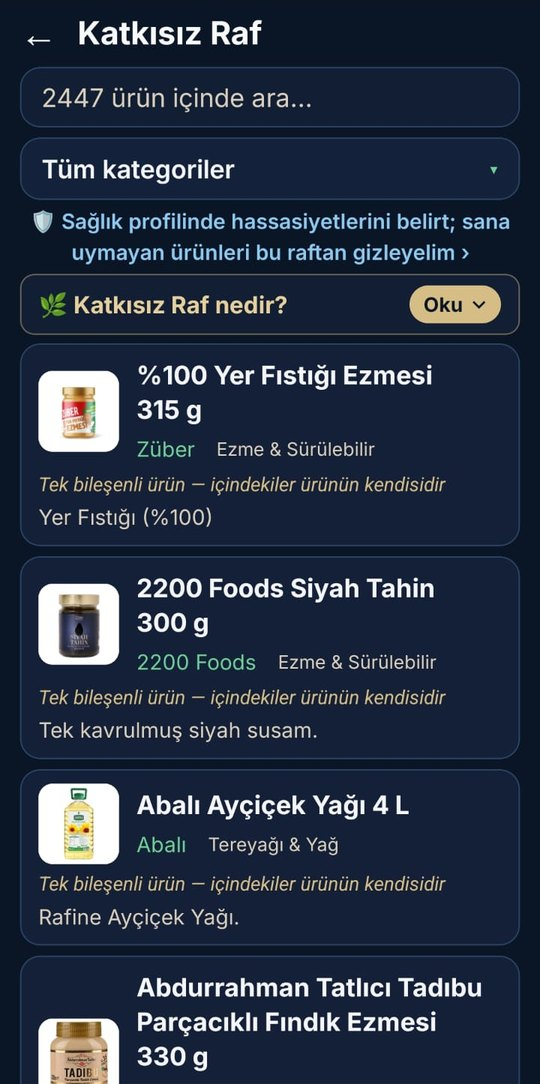
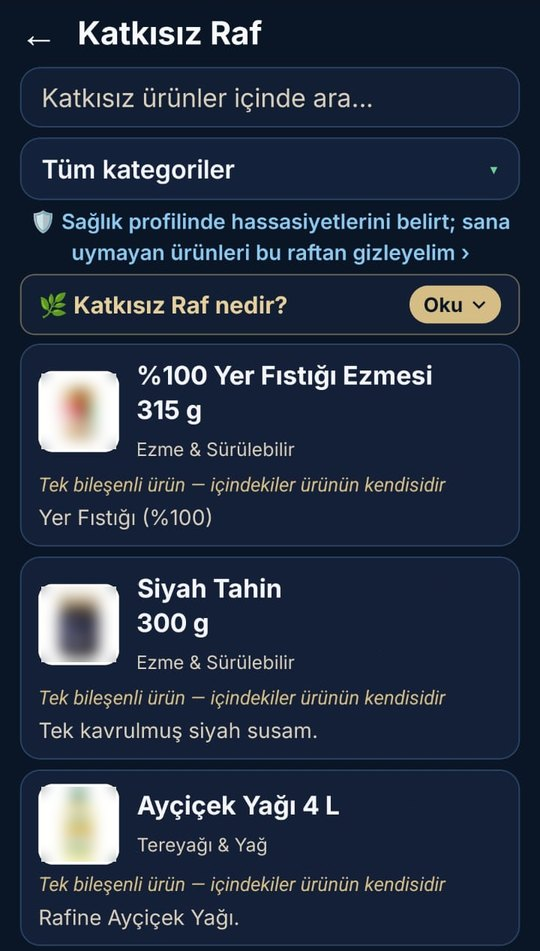
Add files via upload

diff --git a/index.html b/index.html
@@ -8,7 +8,7 @@
 <meta property="og:image" content="https://gozcunebula.com/paylasim.png"><meta property="og:url" content="https://gozcunebula.com/">
 <link rel="canonical" href="https://gozcunebula.com/">
 <link rel="preload" href="lora-variable.woff" as="font" type="font/woff" crossorigin>
-<link rel="icon" href="amblem.png"><link rel="apple-touch-icon" href="apple-touch-icon.png"><link rel="stylesheet" href="stil.css?v=9"></head>
+<link rel="icon" href="amblem.png"><link rel="apple-touch-icon" href="apple-touch-icon.png"><link rel="stylesheet" href="stil.css?v=10"></head>
 <body class="ana">
 <a class="atla" href="#icerik">İçeriğe geç</a>
 <div class="evren" aria-hidden="true"></div>
@@ -32,7 +32,7 @@
 <li>Sağlık bilgin yalnız telefonunda kalır</li>
 </ul>
 </div>
-<figure class="telefon buyuk"><img src="ekran_sonuc.jpg" alt="Uygulamada bir ürünün sonuç ekranı: üstte tek cümlelik özet, altında içerik, besin dengesi ve senin için ışıkları" width="540" height="879"></figure>
+<figure class="telefon buyuk"><img src="ekran_sonuc.jpg" alt="Uygulamada bir ürünün sonuç ekranı: üstte tek cümlelik özet, altında içerik, besin dengesi ve senin için ışıkları" width="540" height="970"></figure>
 </section>
 
 <section class="okuma" aria-labelledby="okuma-b">
@@ -56,7 +56,7 @@
 </table>
 <ol class="dipnot">
 <li>Profilinde çölyak seçiliyse, buğday unundaki gluten senin için uyarı olur.</li>
-<li>E129 (Allura Red AC): AB, bu boyayı içeren gıdalara çocuklarda dikkat ve aktivite uyarısı yazılmasını zorunlu tutar. Kaynak: AB 1333/2008 Ek V.</li>
+<li>E129 (kırmızı renklendirici; resmî adı Allura Red AC): AB, bu boyayı içeren gıdalara çocuklarda dikkat ve aktivite uyarısı yazılmasını zorunlu tutar. Kaynak: AB 1333/2008 Ek V.</li>
 <li>100 g'da 22,5 g'ı geçen şeker yüksek sayılır. Kaynak: UK FSA ön yüz etiket eşikleri.</li>
 </ol>
 </article>
@@ -65,9 +65,9 @@
 <p class="sonuc-not">Örnek: profilinde çölyak seçili</p>
 <div class="ozet isik-k"><span class="lamba" aria-hidden="true"></span><p>Sağlık profilinde seçtiğin bir içerik bu üründe var.</p></div>
 <ul class="isiklar">
-<li class="isik-k"><span class="lamba" aria-hidden="true"></span><div><span class="soru">İçerik</span><b>Yüksek dikkat: Allura Red AC (kırmızı renklendirici)</b></div></li>
-<li class="isik-k"><span class="lamba" aria-hidden="true"></span><div><span class="soru">Besin dengesi</span><b>Şeker yüksek</b></div></li>
-<li class="isik-k"><span class="lamba" aria-hidden="true"></span><div><span class="soru">Senin için</span><b>Profilinde olan içerik: Gluten</b></div></li>
+<li class="isik-k"><span class="trafik" aria-hidden="true"><i></i><i></i><i></i></span><div><span class="soru">İçerik</span><b>Yüksek dikkat: E129, kırmızı renklendirici</b></div></li>
+<li class="isik-k"><span class="trafik" aria-hidden="true"><i></i><i></i><i></i></span><div><span class="soru">Besin dengesi</span><b>Şeker yüksek</b></div></li>
+<li class="isik-k"><span class="trafik" aria-hidden="true"><i></i><i></i><i></i></span><div><span class="soru">Senin için</span><b>Profilinde olan içerik: Gluten</b></div></li>
 </ul>
 <p class="sonuc-alt">Her satıra dokununca ayrıntısı ve dayandığı resmî karar açılır. Renk tek başına anlam taşımaz; her ışık ne demek istediğini yazıyla da söyler.</p>
 </div>
@@ -80,14 +80,14 @@
 <h2 id="nasil-b">Nasıl çalışır?</h2>
 <ol class="adimlar">
 <li><b>Barkodu okut.</b> Kamerayla tara ya da numarasını yaz.</li>
-<li><b>Üç ışığa bak.</b> İçerik, besin dengesi ve senin için: her biri yeşil, sarı, kırmızı ya da gri yanar.</li>
+<li><b>Üç ışığa bak.</b> İçerik, besin dengesi ve senin için: her birinin trafik lambasında durumun rengi yanar; yeşil, sarı ya da kırmızı. Bilgi yoksa üçü de sönük kalır.</li>
 <li><b>Kaynağını gör.</b> Satıra dokun; uyarının hangi resmî karara dayandığını oku.</li>
 </ol>
 <p class="yok-ise">Ürün henüz Gözcü'de yoksa barkodunu not eder, ürünü araştırıp ekleriz. Beklemek istemezsen ürünü listemizde adıyla bulup seçebilir ya da ambalajın fotoğrafını çekip gönderebilirsin; gönderilen her bilgi gözle incelenip doğrulandıktan sonra eklenir.</p>
 </div>
 <div class="ekranlar">
-<figure><div class="telefon"><img src="ekran_ana.jpg" alt="Uygulamanın ana ekranı: Barkodu Tara düğmesi, Sağlık Profilim, Katkısız Raf, Alışverişim, Bilgi Köşesi, Katkı ve Puanım, Haftalık Rapor ve Geri Bildirim" loading="lazy" width="540" height="1084"></div><figcaption>Ana ekran</figcaption></figure>
-<figure class="kaydir"><div class="telefon"><img src="ekran_raf.jpg" alt="Katkısız Raf ekranı: katkı maddesi içermeyen ürünlerin listesi" loading="lazy" width="540" height="1084"></div><figcaption>Katkısız Raf</figcaption></figure>
+<figure><div class="telefon"><img src="ekran_ana.jpg" alt="Uygulamanın ana ekranı: Barkodu Tara düğmesi, Sağlık Profilim, Katkısız Raf, Alışverişim, Bilgi Köşesi, Katkı ve Puanım, Haftalık Rapor, Geri Bildirim ve iki sesli anlatım kartı" loading="lazy" width="540" height="1080"></div><figcaption>Ana ekran</figcaption></figure>
+<figure class="kaydir"><div class="telefon"><img src="ekran_raf.jpg" alt="Katkısız Raf ekranı: katkı maddesi içermeyen ürünlerin listesi" loading="lazy" width="540" height="951"></div><figcaption>Katkısız Raf</figcaption></figure>
 </div>
 </section>
 
@@ -98,7 +98,7 @@
 <div><dt><svg viewBox="0 0 24 24" aria-hidden="true"><path d="M4 9h16l-2 10H6L4 9zM8 9l4-5 4 5"/></svg>Katkısız Raf</dt><dd>İçindekiler listesinde hiçbir katkı maddesi bulunmayan, tek tek okunarak incelenmiş 2.400'ü aşkın ürün. Katkısız olması daha sağlıklı olduğu anlamına gelmez; şeker, tuz ve yağ oranına yine de bak.</dd></div>
 <div><dt><svg viewBox="0 0 24 24" aria-hidden="true"><path d="M3 5h2l2 10h11l2-7H7M9 19.5h.01M17 19.5h.01"/></svg>Alışverişim</dt><dd>Düzenli aldığın ürünleri listene ekle; içindekileri değişirse Gözcü haber versin.</dd></div>
 <div><dt><svg viewBox="0 0 24 24" aria-hidden="true"><path d="M5 6v13h6M19 6v13h-6M11 19V6.5C9.5 5 7 5 5 6M13 19V6.5C14.5 5 17 5 19 6"/></svg>Bilgi Köşesi</dt><dd>Şeker, tuz, trans yağ ve katkı maddeleri hakkında kaynaklı, anlaşılır yazılar.</dd></div>
-<div><dt><svg viewBox="0 0 24 24" aria-hidden="true"><path d="M11 4v8l5 3M20 12a8 8 0 1 1-2.3-5.6"/></svg>Sesli sonuç</dt><dd>Sonucu bir dokunuşla dinle. Okuma telefonun içinde yapılır; metin hiçbir yere gönderilmez.</dd></div>
+<div><dt><svg viewBox="0 0 24 24" aria-hidden="true"><path d="M11 4v8l5 3M20 12a8 8 0 1 1-2.3-5.6"/></svg>Sesli sonuç</dt><dd>Sonucu bir dokunuşla dinle. Okuma telefonun içinde yapılır; metin hiçbir yere gönderilmez. Ana ekrandaki iki kısa anlatımla Gözcü'yü ve nasıl yardım edebileceğini de dinleyebilirsin.</dd></div>
 <div><dt><svg viewBox="0 0 24 24" aria-hidden="true"><path d="M12 20h8M4 20l1-4L16 5l3 3L8 19l-4 1z"/></svg>Katkı ve Puanım</dt><dd>Eksik bir ürünü ya da yanlış bir bilgiyi bildir; gönderdiğin her katkı gözle incelenir.</dd></div>
 </dl>
 </section>

diff --git a/sss.html b/sss.html
@@ -7,7 +7,7 @@
 <meta property="og:title" content="Sık sorulan sorular · Gözcü Nebula"><meta property="og:description" content="Gözcü Nebula hakkında sık sorulan sorular.">
 <meta property="og:image" content="https://gozcunebula.com/paylasim.png"><meta property="og:url" content="https://gozcunebula.com/sss.html">
 <link rel="canonical" href="https://gozcunebula.com/sss.html">
-<link rel="icon" href="amblem.png"><link rel="apple-touch-icon" href="apple-touch-icon.png"><link rel="stylesheet" href="stil.css?v=9"></head>
+<link rel="icon" href="amblem.png"><link rel="apple-touch-icon" href="apple-touch-icon.png"><link rel="stylesheet" href="stil.css?v=10"></head>
 <body class="sayfa">
 <a class="atla" href="#icerik">İçeriğe geç</a>
 <div class="evren" aria-hidden="true"></div>
@@ -34,10 +34,12 @@
 <details><summary>Gözcü bir marka ya da marketle çalışıyor mu?</summary><p>Hayır. Gözcü bağımsızdır; hiçbir üretici, marka veya marketten para ya da başka bir karşılık almaz. Bir ürünün sonucu satın alınamaz, değiştirilemez.</p></details>
 
 <h2 id="sonuclar">Sonuçları anlamak</h2>
-<details><summary>Üç ışık ne anlatıyor?</summary><p><b>İçerik</b> ışığı katkı maddelerinin resmî kaynaklarda bir uyarı taşıyıp taşımadığını, <b>Besin dengesi</b> ışığı 100 gramdaki şeker, tuz ve doymuş yağın düşük mü yüksek mi olduğunu, <b>Senin için</b> ışığı ise sağlık profilinde seçtiğin bir içeriğin üründe bulunup bulunmadığını gösterir. Her satıra dokunduğunda ayrıntısını ve dayandığı resmî kararı görürsün.</p></details>
-<details><summary>Işık neden gri yanıyor?</summary><p>Gri, "emin olmak için yeterli bilgi yok" demektir. İçindekiler eksikse, okunamıyorsa ya da tanınmayan bir katkı varsa Gözcü "uyarı yok" demez; ışığı gri yakar. Yanlış bilgi göstermektense bilgi yok demeyi seçeriz.</p></details>
+<details><summary>Üç ışık ne anlatıyor?</summary><p><b>İçerik</b> ışığı katkı maddelerinin resmî kaynaklarda bir uyarı taşıyıp taşımadığını, <b>Besin dengesi</b> ışığı 100 gramdaki şeker, tuz ve doymuş yağın düşük mü yüksek mi olduğunu, <b>Senin için</b> ışığı ise sağlık profilinde seçtiğin bir içeriğin üründe bulunup bulunmadığını gösterir. Her biri küçük bir trafik lambasıdır: kırmızı üstte, sarı ortada, yeşil altta; yalnız durumun rengi yanar. Her satıra dokunduğunda ayrıntısını ve dayandığı resmî kararı görürsün.</p></details>
+<details><summary>Lambanın üç rengi de neden sönük?</summary><p>Hiçbir renk yanmıyorsa ve yanında "Bilgi yok" yazıyorsa, emin olmak için yeterli bilgi yok demektir. İçindekiler eksikse, okunamıyorsa ya da tanınmayan bir katkı varsa Gözcü "uyarı yok" demez; lambayı sönük bırakır. Yanlış bilgi göstermektense bilgi yok demeyi seçeriz.</p></details>
 <details><summary>Gözcü bir ürünün "zararlı" olduğunu mu söylüyor?</summary><p>Hayır. Gözcü ambalajda beyan edilen içeriği resmî kurum kararlarıyla karşılaştırır; ürün ya da üretici hakkında hüküm vermez. Bir katkının etikette bulunması o ürünün zararlı olduğu anlamına gelmez; izinli katkılar resmî sınırlar içinde kullanılır.</p></details>
 <details><summary>"Gluten kaynağı görünmüyor" ile "glutensiz" aynı şey mi?</summary><p>Hayır. Gözcü yalnız içindekiler listesini okur; üretim sırasındaki bulaşmayı bilemez. Çölyak hastasıysan ambalajdaki "glutensiz" ibaresine mutlaka bak. Ciddi alerjilerde de etiketi her zaman kendin oku.</p></details>
+<details><summary>Okumak yerine dinleyebilir miyim?</summary><p>Evet. Sonuç ekranındaki "Sonucu sesli dinle" düğmesi değerlendirmeyi sana okur; okuma telefonun içinde yapılır. Ana ekrandaki "Gözcü'yü dinle" kartı Gözcü'yü, "Gözcü seninle büyür" kartı da bir ürün bulunamadığında ne yapabileceğini yaklaşık bir buçuk dakikada anlatır.</p></details>
+<details><summary>Görme engelli ya da az gören kişiler kullanabilir mi?</summary><p>Evet. Gözcü, telefonun ekran okuyucusuyla (Android'de TalkBack) çalışır: düğmeler adlarıyla, sağlık profilindeki seçimler "işaretli" ya da "işaretsiz" diye, ışıklar da durumlarıyla birlikte sesli okunur.</p></details>
 <details><summary>Gözcü tıbbi tavsiye veriyor mu?</summary><p>Hayır. Gözcü bilgi amaçlıdır; tıbbi tavsiye, teşhis ya da tedavi yerine geçmez. Beslenmenle ilgili kararlar için doktoruna ya da diyetisyenine danış.</p></details>
 
 <h2 id="katkisiz-raf">Katkısız Raf</h2>

diff --git a/yontem.html b/yontem.html
@@ -7,7 +7,7 @@
 <meta property="og:title" content="Üreticiler için · Gözcü Nebula"><meta property="og:description" content="Gözcü bir ürüne iyi ya da kötü demez: ambalajdaki içeriği resmî kurumların kararlarıyla karşılaştırır ve kaynağını gösterir. Yöntemimiz, kaynaklarımız ve sınırlarımız.">
 <meta property="og:image" content="https://gozcunebula.com/paylasim.png"><meta property="og:url" content="https://gozcunebula.com/yontem.html">
 <link rel="canonical" href="https://gozcunebula.com/yontem.html">
-<link rel="icon" href="amblem.png"><link rel="apple-touch-icon" href="apple-touch-icon.png"><link rel="stylesheet" href="stil.css?v=9"></head>
+<link rel="icon" href="amblem.png"><link rel="apple-touch-icon" href="apple-touch-icon.png"><link rel="stylesheet" href="stil.css?v=10"></head>
 <body class="sayfa">
 <a class="atla" href="#icerik">İçeriğe geç</a>
 <div class="evren" aria-hidden="true"></div>
@@ -22,7 +22,7 @@
 <p><b>İçerik:</b> katkı maddeleri resmî kaynaklarda bir uyarı ya da kısıtlama taşıyor mu?</p>
 <p><b>Besin dengesi:</b> 100 gramdaki şeker, tuz ve doymuş yağ düşük mü, orta mı, yüksek mi?</p>
 <p><b>Senin için:</b> sağlık profilinde seçtiğin bir içerik bu üründe var mı? Profilin yalnız telefonunda tutulur.</p>
-<p>Işıkların anlamı: <b>Uyarı yok</b> · <b>Dikkat</b> · <b>Uyarı</b> · <b>Bilgi yok</b>. Renk tek başına anlam taşımaz; her ışığın yanında yazıyla da söylenir.</p></section>
+<p>Her ışık küçük bir trafik lambasıdır: kırmızı üstte, sarı ortada, yeşil altta; yalnız durumun rengi yanar. Işıkların anlamı: <b>Uyarı yok</b> (yeşil) · <b>Dikkat</b> (sarı) · <b>Uyarı</b> (kırmızı) · <b>Bilgi yok</b> (üçü de sönük). Renk tek başına anlam taşımaz; her ışığın yanında yazıyla da söylenir.</p></section>
 
 <section><h2 id="hangi-kaynaklara-dayaniyoruz">Hangi kaynaklara dayanıyoruz?</h2>
 <p><b>1. Resmî düzenleyici kaynaklar (ana dayanak)</b></p>

diff --git a/stil.css b/stil.css
@@ -240,3 +240,17 @@ ul{padding-left:22px} li{margin:4px 0}
   .ekranlar .kaydir{margin-top:32px}
 }
 @media print{.evren,header nav{display:none}body{background:#fff;color:#000}}
+
+/* 28 Eki: ornek sonuctaki isiklar uygulamadaki gibi trafik lambasi */
+.trafik{flex:none;width:22px;padding:5px 0;margin-top:1px;border-radius:12px;background:#070F1C;border:1px solid rgba(214,188,133,.3);display:flex;flex-direction:column;align-items:center;gap:4px}
+.trafik i{display:block;width:10px;height:10px;border-radius:50%}
+.trafik i:nth-child(1){background:rgba(238,124,117,.17)}
+.trafik i:nth-child(2){background:rgba(237,182,91,.17)}
+.trafik i:nth-child(3){background:rgba(95,201,138,.17)}
+.isik-k .trafik i:nth-child(1){width:13px;height:13px;background:var(--kirmizi);box-shadow:0 0 10px rgba(238,124,117,.7)}
+@media (prefers-reduced-motion:no-preference){
+  .sonuc .isik-k .trafik i:nth-child(1){animation:yan .5s ease-out both}
+  .isiklar li:nth-child(1) .trafik i{animation-delay:.5s}
+  .isiklar li:nth-child(2) .trafik i{animation-delay:.8s}
+  .isiklar li:nth-child(3) .trafik i{animation-delay:1.1s}
+}

diff --git a/gizlilik.html b/gizlilik.html
@@ -7,7 +7,7 @@
 <meta property="og:title" content="Gizlilik politikası ve KVKK aydınlatma metni · Gözcü Nebula"><meta property="og:description" content="Gözcü Nebula gizlilik politikası ve 6698 sayılı KVKK kapsamında aydınlatma metni.">
 <meta property="og:image" content="https://gozcunebula.com/paylasim.png"><meta property="og:url" content="https://gozcunebula.com/gizlilik.html">
 <link rel="canonical" href="https://gozcunebula.com/gizlilik.html">
-<link rel="icon" href="amblem.png"><link rel="apple-touch-icon" href="apple-touch-icon.png"><link rel="stylesheet" href="stil.css?v=9"></head>
+<link rel="icon" href="amblem.png"><link rel="apple-touch-icon" href="apple-touch-icon.png"><link rel="stylesheet" href="stil.css?v=10"></head>
 <body class="sayfa">
 <a class="atla" href="#icerik">İçeriğe geç</a>
 <div class="evren" aria-hidden="true"></div>

diff --git a/uretici.html b/uretici.html
@@ -7,7 +7,7 @@
 <meta property="og:title" content="Üreticiler için · Gözcü Nebula"><meta property="og:description" content="Ürünlerinizin etiket bilgisini Gözcü Nebula'ya ücretsiz iletin; tek tek ya da toplu.">
 <meta property="og:image" content="https://gozcunebula.com/paylasim.png"><meta property="og:url" content="https://gozcunebula.com/uretici.html">
 <link rel="canonical" href="https://gozcunebula.com/uretici.html">
-<link rel="icon" href="amblem.png"><link rel="apple-touch-icon" href="apple-touch-icon.png"><link rel="stylesheet" href="stil.css?v=9"></head>
+<link rel="icon" href="amblem.png"><link rel="apple-touch-icon" href="apple-touch-icon.png"><link rel="stylesheet" href="stil.css?v=10"></head>
 <body class="sayfa">
 <a class="atla" href="#icerik">İçeriğe geç</a>
 <div class="evren" aria-hidden="true"></div>

diff --git a/kosullar.html b/kosullar.html
@@ -7,7 +7,7 @@
 <meta property="og:title" content="Kullanım koşulları · Gözcü Nebula"><meta property="og:description" content="Gözcü Nebula kullanım koşulları.">
 <meta property="og:image" content="https://gozcunebula.com/paylasim.png"><meta property="og:url" content="https://gozcunebula.com/kosullar.html">
 <link rel="canonical" href="https://gozcunebula.com/kosullar.html">
-<link rel="icon" href="amblem.png"><link rel="apple-touch-icon" href="apple-touch-icon.png"><link rel="stylesheet" href="stil.css?v=9"></head>
+<link rel="icon" href="amblem.png"><link rel="apple-touch-icon" href="apple-touch-icon.png"><link rel="stylesheet" href="stil.css?v=10"></head>
 <body class="sayfa">
 <a class="atla" href="#icerik">İçeriğe geç</a>
 <div class="evren" aria-hidden="true"></div>

diff --git a/404.html b/404.html
@@ -7,7 +7,7 @@
 <meta property="og:title" content="Sayfa bulunamadı · Gözcü Nebula"><meta property="og:description" content="Aradığınız sayfa bulunamadı.">
 <meta property="og:image" content="https://gozcunebula.com/paylasim.png"><meta property="og:url" content="https://gozcunebula.com/404.html">
 <link rel="canonical" href="https://gozcunebula.com/404.html">
-<link rel="icon" href="amblem.png"><link rel="apple-touch-icon" href="apple-touch-icon.png"><link rel="stylesheet" href="stil.css?v=9"></head>
+<link rel="icon" href="amblem.png"><link rel="apple-touch-icon" href="apple-touch-icon.png"><link rel="stylesheet" href="stil.css?v=10"></head>
 <body class="sayfa">
 <a class="atla" href="#icerik">İçeriğe geç</a>
 <div class="evren" aria-hidden="true"></div>
